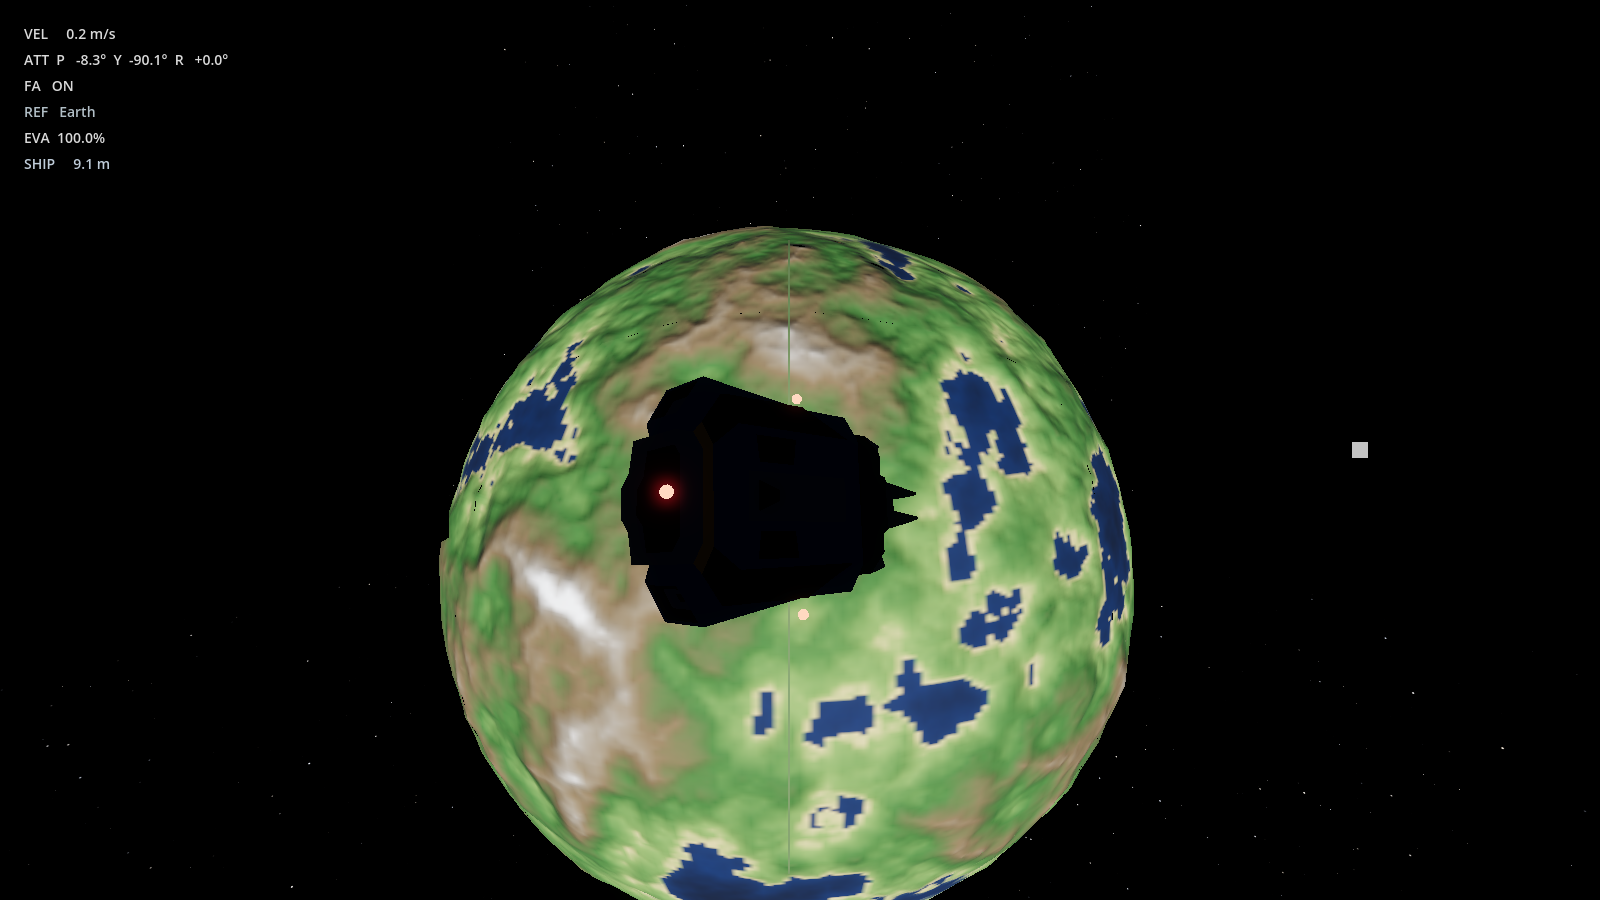
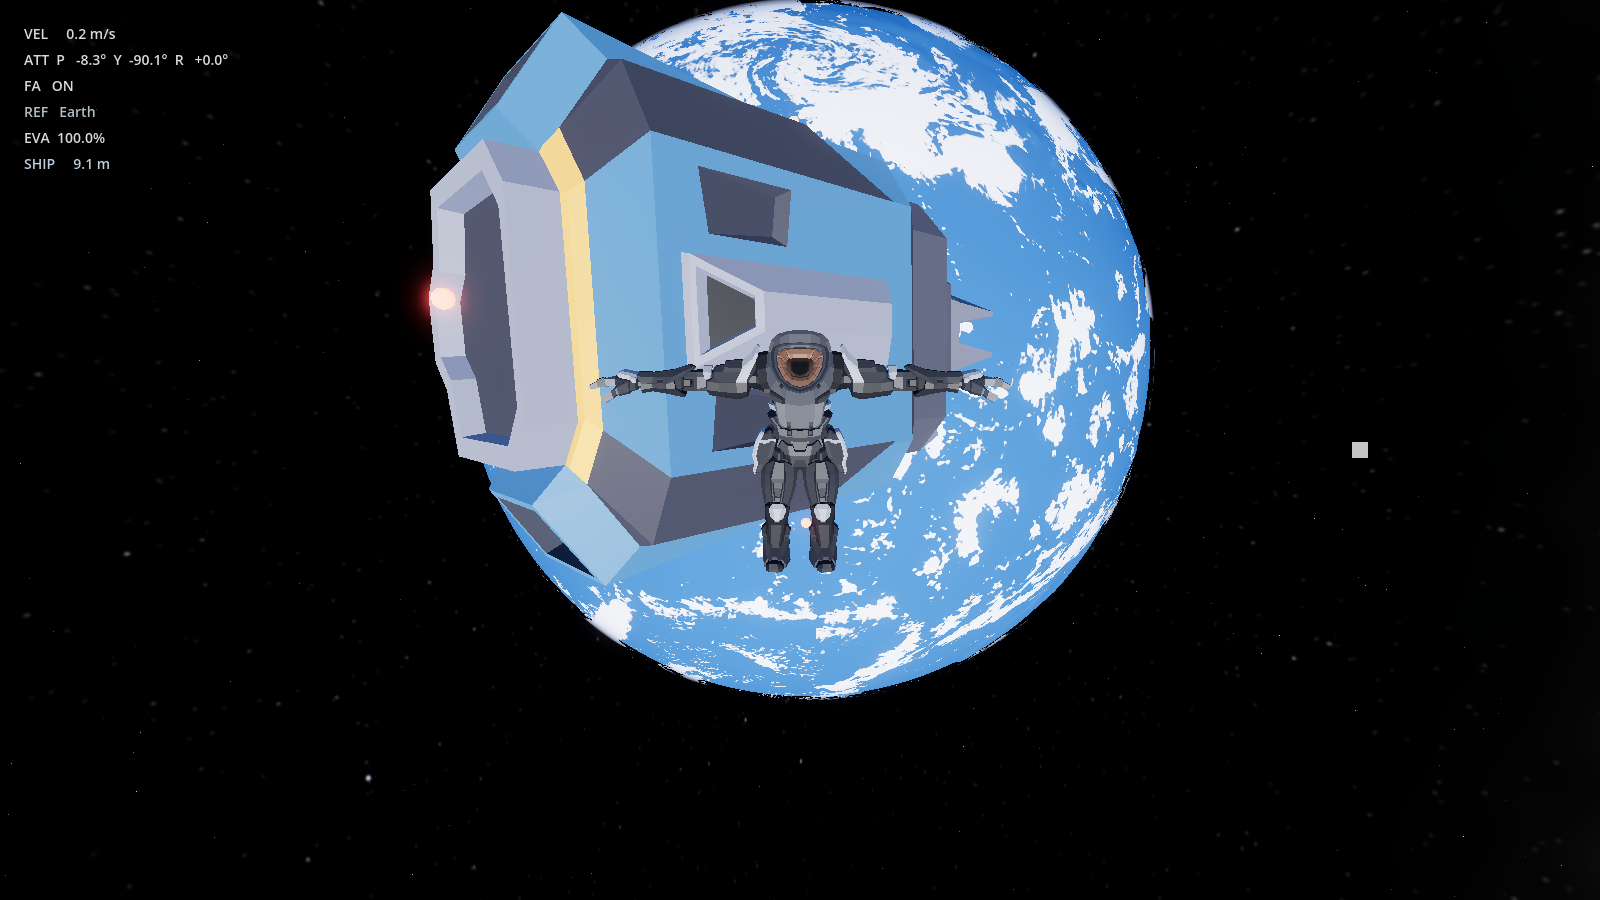
fix(cascade): ship 1.8x + the real giant-suit bug — never strip a skinned cook's root scale
Ship rescaled 1.8x per owner call (hull, collision, cargo bay, thruster
markers, nav lights, exit point, both camera offsets — hull ~13 m, a
human now ~1/8 of ship length); harnesses read the rig offset instead
of hardcoding it. EVA exit already hands off at ship velocity with the
rotational hatch term, so the requested relative-speed start needed no
change.

The suit investigation then took its real turn: the owner's 'giant
suit' was NOT perception — patch_gltf_materials stripped the 0.01 root
scale from SK_Chr_BR_EVA_Suit_01 (its metre vertices fit the SK_ rule)
but the cook keeps skeleton joints AND inverse bind matrices in
centimetres, and glTF skinning runs in the skeleton's space: the root
scale is what brings the skinned result back to metres. Without it the
limbs explode ~100x in render while every rest-space check still reads
1.73 m, because a skinned mesh's get_aabb() reports rest space and is
blind to skinning — which fooled the audit twice, and along the way the
debris field and the Meridian Relay tower both played decoys. Empirical
proof both ways: root restored -> posed 1.73 m figure; stripped ->
exploded. The patcher now refuses to touch any glTF with skins (rule
documented), the local asset is restored, docs corrected, and
tests/capture_suit_scale.gd keeps the proportion shot reproducible.

All six suites green; EVA screenshots 06-10 refreshed — the standoff
shot shows an actual astronaut for the first time.
[…]

diff --git a/tools/patch_gltf_materials.py b/tools/patch_gltf_materials.py
@@ -177,7 +177,19 @@ def _vertices_are_metres(path: pathlib.Path, g: dict) -> bool:
 def _fix_stray_unit_scale(path: pathlib.Path, g: dict) -> bool:
     """Strip the 0.01 root-node scale when the vertices are already in
     metres (docstring #1). Only root nodes named by a scene are touched, so
-    intentional child scaling survives."""
+    intentional child scaling survives.
+
+    NEVER strip it from a SKINNED cook. The character cooks keep their
+    skeleton joints and inverse bind matrices in centimetres even when the
+    mesh vertices are metres, and glTF skinning runs in the skeleton's space
+    — the 0.01 root is what brings the skinned result back to metres.
+    Stripping it explodes the limbs ~100x the moment the skeleton drives the
+    mesh (the giant-EVA-suit bug), while every REST-space check still reads
+    1.73 m, because a skinned mesh's AABB cannot see skinning. Verified
+    empirically on SK_Chr_BR_EVA_Suit_01: root restored -> correct 1.73 m
+    posed figure; root stripped -> exploded."""
+    if g.get("skins"):
+        return False
     if not _vertices_are_metres(path, g):
         return False
     changed = False

diff --git a/docs/tasks.md b/docs/tasks.md
@@ -635,11 +635,24 @@ drains on thrust AND torque and cuts both at empty (spec-intended dead-stick).
 Weak spots if EVA gets a feel pass later: keys are binary full-thrust, no
 free-look, empty-tank tumble is unforgiving.
 
-- [ ] **Owner call**: fix the scale mismatch at the ship, not the suit —
-  scale the hull assembly ~1.75-2x (13-14.5 m long, human ~1/8 of length like
-  a real tug; mass/thrust already fit a ship that size), rescaling collision,
-  cargo bay, exit point and docking collar together. Cheaper cosmetic
-  alternative: pull the EVA camera back to (0, 1.6, 6). Or both.
+- [x] **Ship rescaled 1.8x** (owner call, 2026-08-23): hull instance, box
+  collision, cargo bay, thruster markers, nav lights, exit point and both
+  camera offsets, all together (hull now ~13.0 m long; mass/thrust already
+  fit). Harnesses read the rig offset instead of hardcoding it.
+- [x] **CORRECTION to the audit above — the suit WAS broken, differently.**
+  The rest-pose measurements were true but blind: `get_aabb()` on a skinned
+  mesh reports REST space and cannot see skinning. In the render, the suit's
+  limbs exploded ~100x — `patch_gltf_materials` stripped the 0.01 root scale
+  from the character cook (correct for its metre vertices) but the cook keeps
+  its skeleton joints AND inverse bind matrices in centimetres, and glTF
+  skinning runs in the skeleton's space: the root scale is what brings the
+  skinned result back to metres. That was the owner's original "giant suit".
+  Fixed: the patcher never strips the root from a cook with `skins` (rule
+  documented in the patcher docstring), the local asset is restored, and the
+  suit renders a posed 1.73 m figure beside the 13 m hull.
+- [x] EVA handoff verified as requested: `request_exit` already sets the suit
+  to the ship's velocity including the hatch's rotational term (zero relative
+  speed at exit), full 6DOF thrust retained, assist on by default.
 
 ### OR2 — Dramatic lighting change tied to MOVEMENT — FIXED 2026-08-23
 **Still reproduces.** The owner playtested the current build and re-reported

diff --git a/docs/assets.md b/docs/assets.md
@@ -131,6 +131,15 @@ Plus a +90° X rotation (Synty authors Z-up; glTF is Y-up), so **world extents
 are `(rawX, rawZ, rawY) × root scale`**. Whether the 0.01 is correct depends on
 the cook generation:
 
+**Skinned cooks are the exception to the exception (2026-08-23):** a cook
+with `skins` (the rigged characters) must KEEP its 0.01 root even though its
+mesh vertices are metres — the skeleton joints and inverse bind matrices are
+centimetres, glTF skinning runs in the skeleton's space, and the root scale is
+what brings the skinned result back to metres. Stripping it explodes the limbs
+~100x in render while every rest-space AABB still reads 1.73 m (a skinned
+mesh's `get_aabb()` cannot see skinning — do not trust it). The patcher now
+refuses to touch any glTF with `skins`.
+
 | Family | Vertices | The 0.01 is | Result if left alone |
 |---|---|---|---|
 | `POLYGON_*` static `SM_*` | centimetres | correct | fine |
